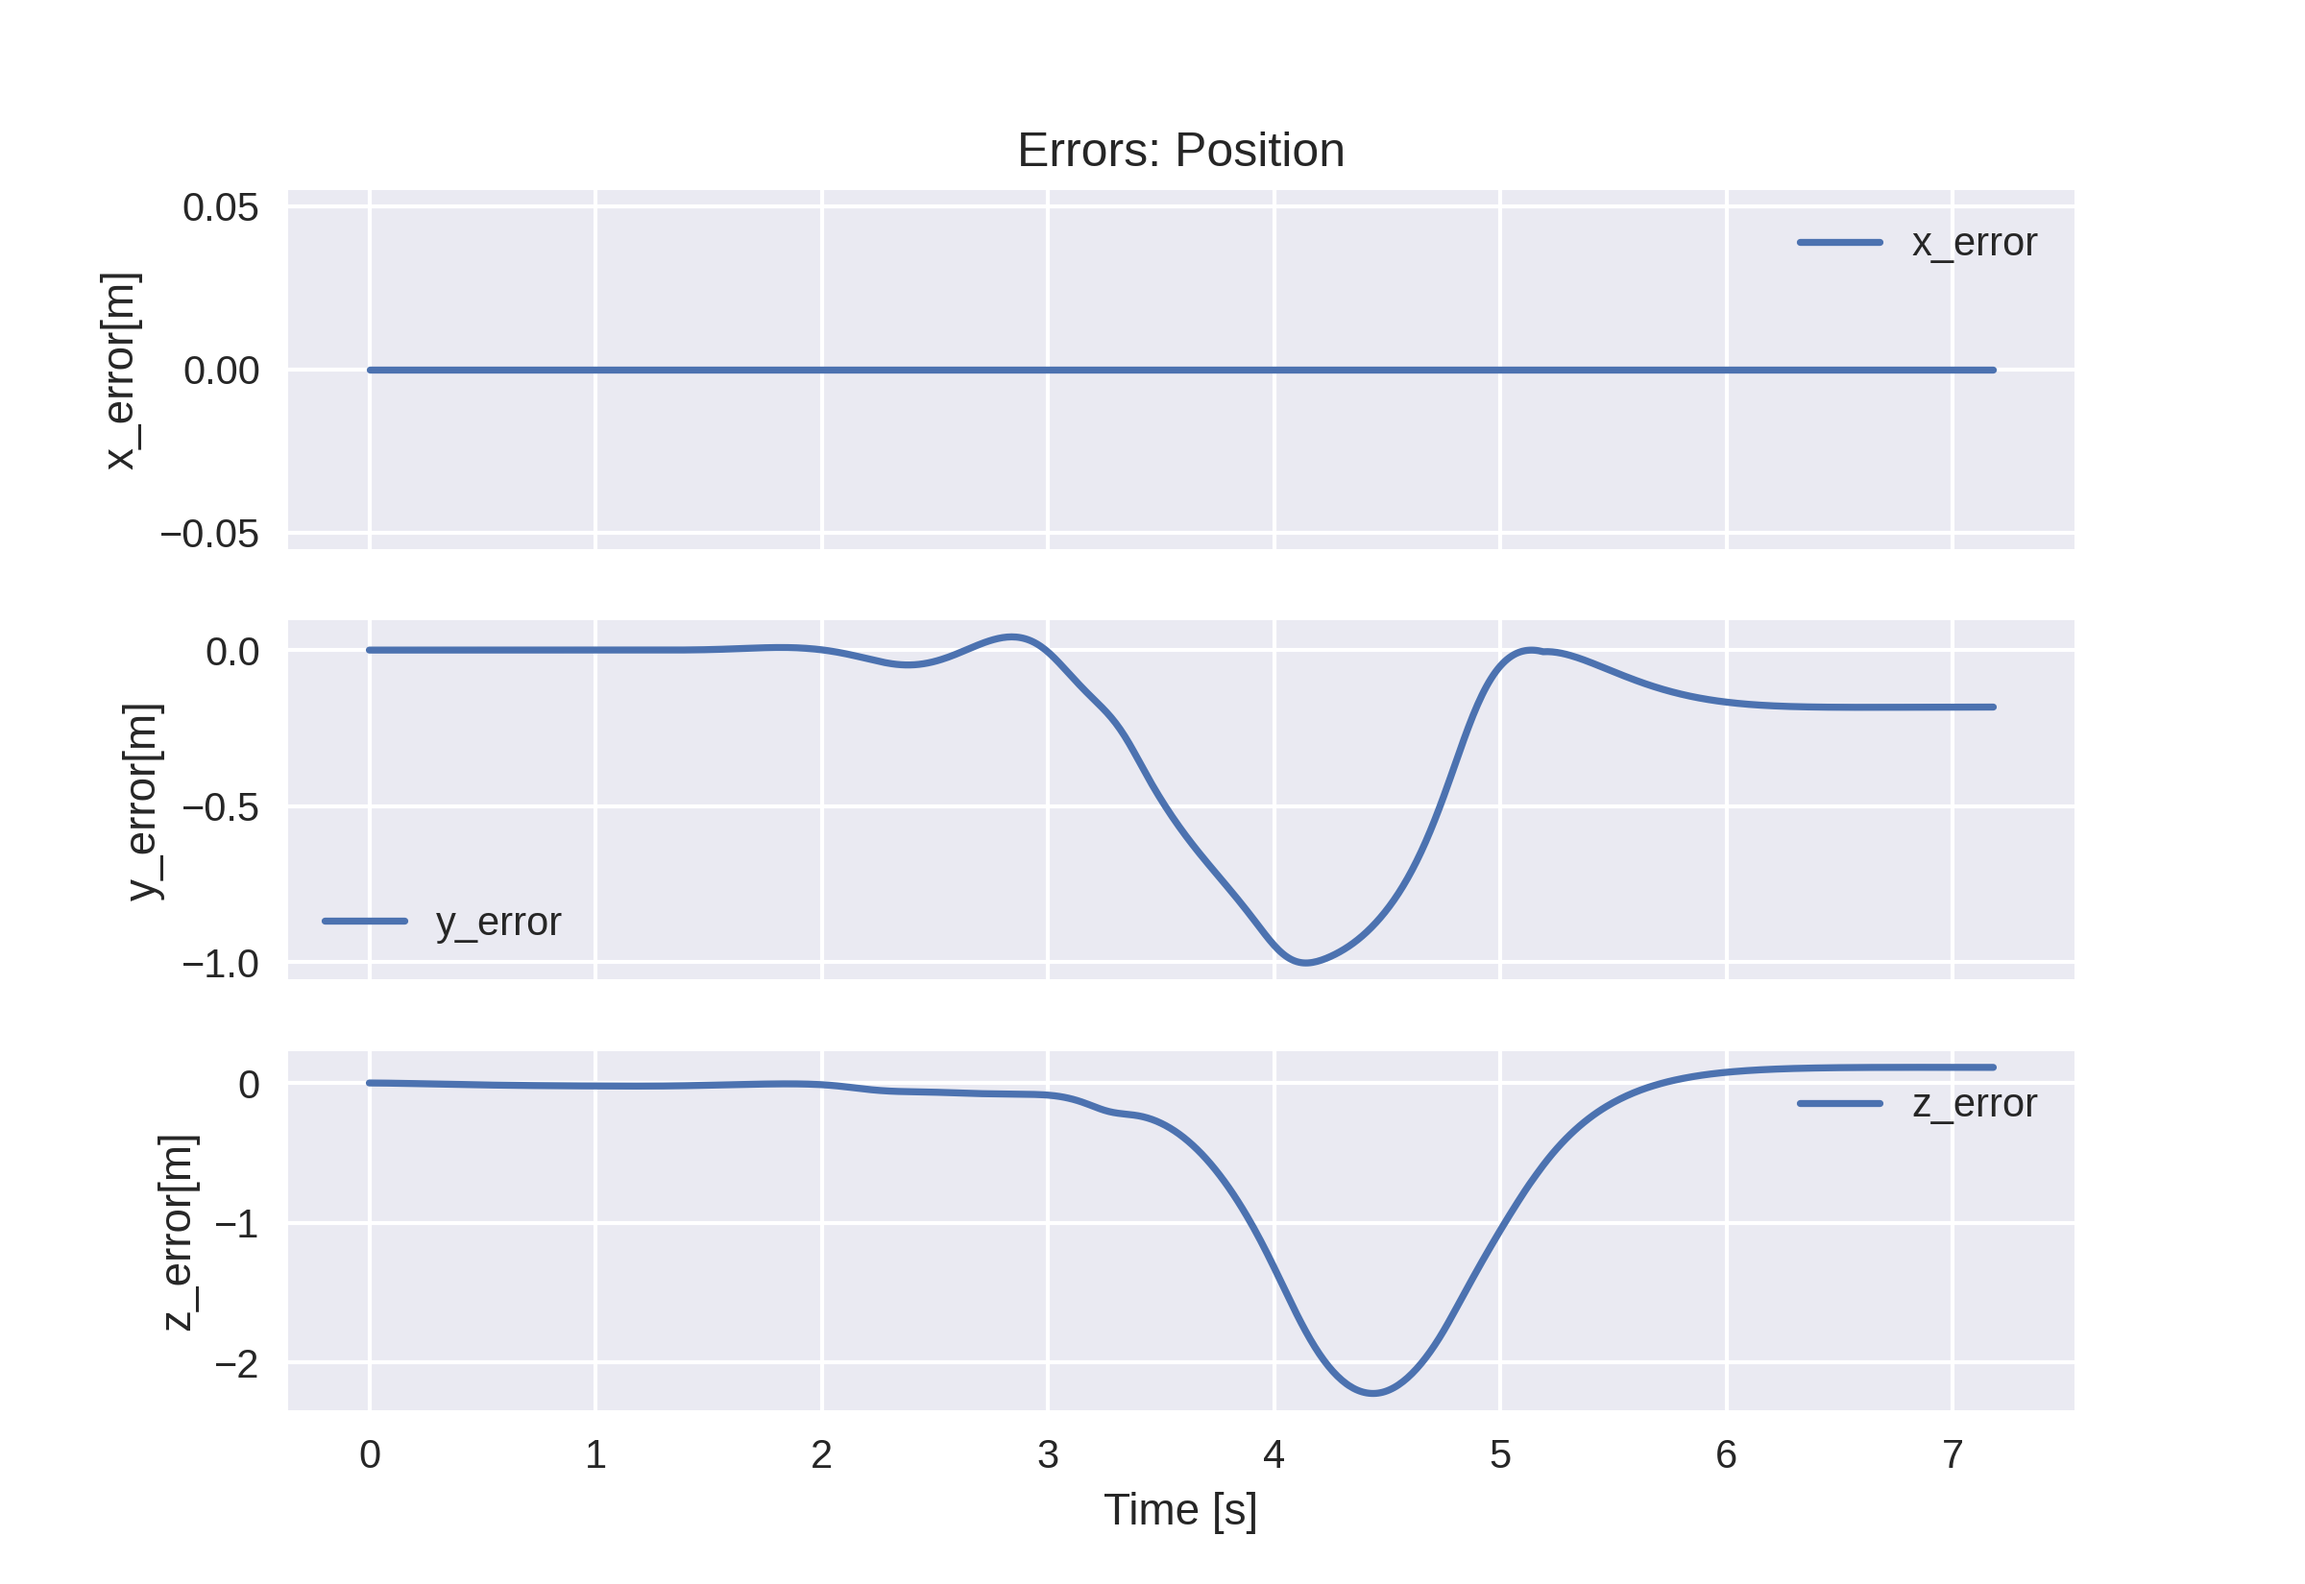
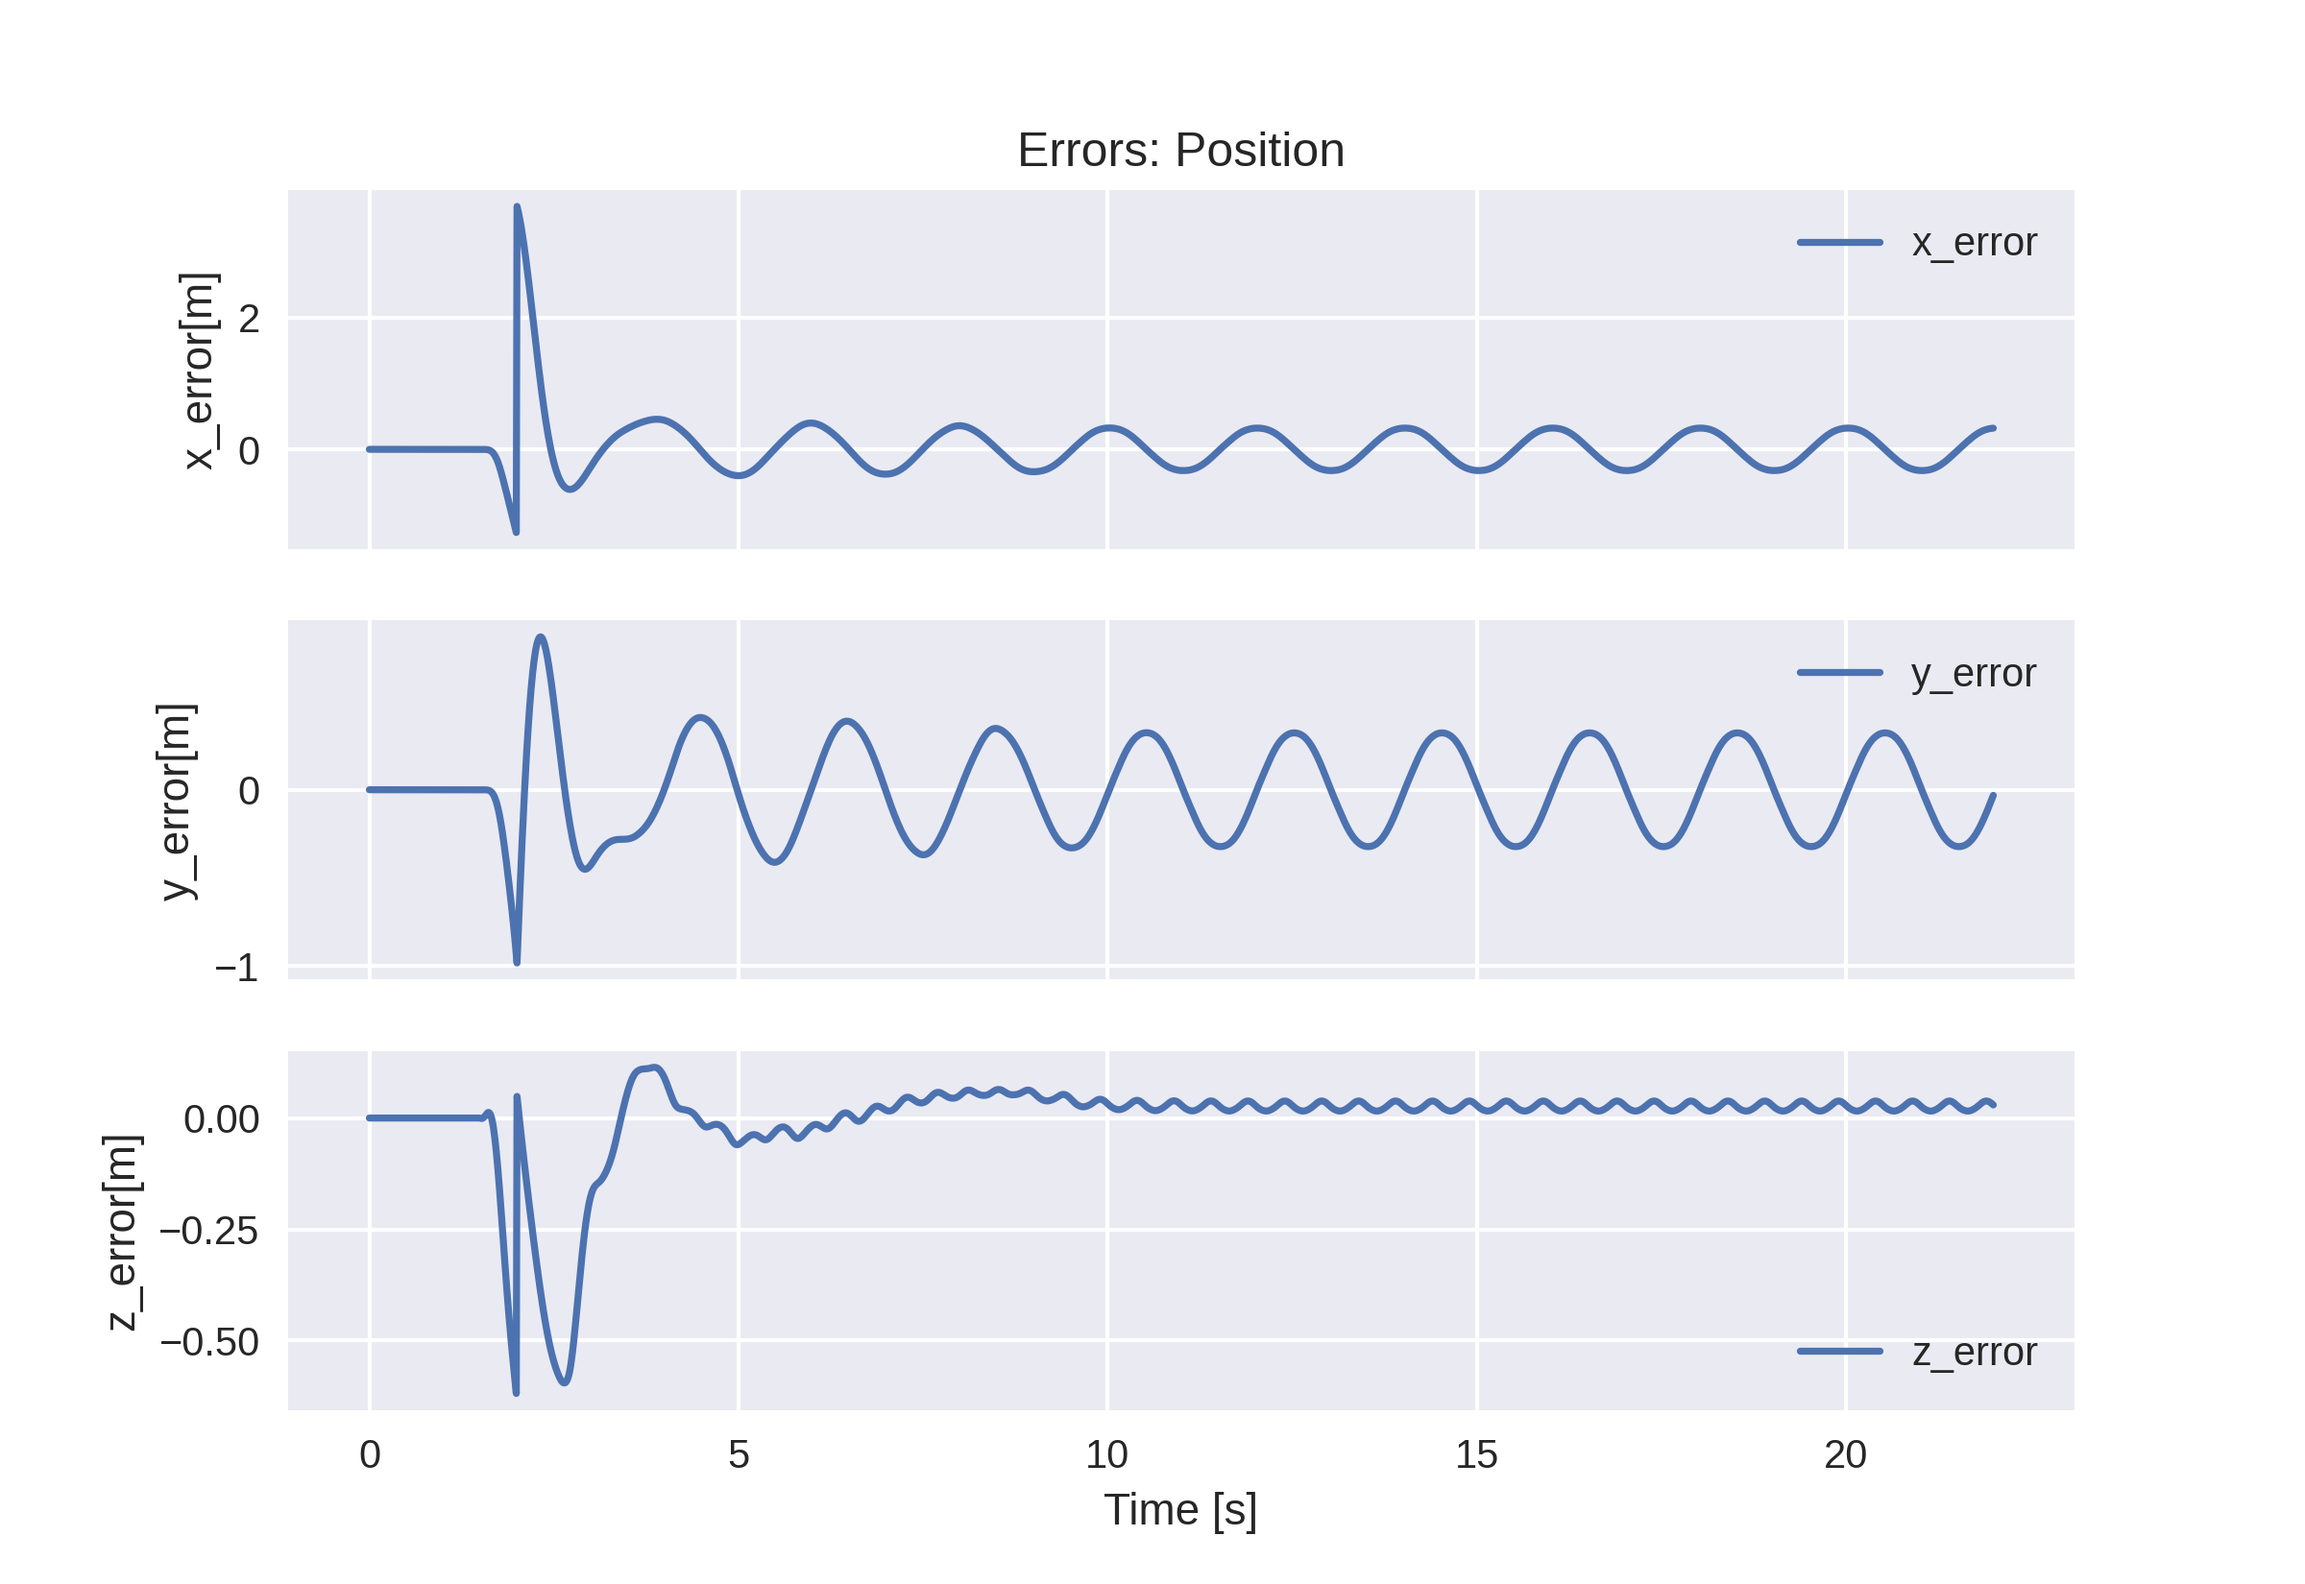
change param

diff --git a/full_mpc/main.py b/full_mpc/main.py
@@ -9,8 +9,8 @@ from trajectory import *
 
 
 # mpc and simulation parameters
-Tf = 1        # prediction horizon
-N = 100      # number of discretization steps
+Tf = 0.2        # prediction horizon
+N = 20      # number of discretization steps
 Ts = Tf / N   # sampling time[s]
 
 T_hover = 2     # hovering time[s]
@@ -31,13 +31,13 @@ noisy_input = False
 # extended_kalman_filter = False
 
 # generate circulare trajectory with velocties
-traj_with_vel = False
+traj_with_vel = True
 
 # use a single reference point
 ref_point = False
 
 # import trajectory with positions and velocities and inputs
-import_trajectory = True
+import_trajectory = False
 
 # bool to save measurements and inputs as .csv files
 save_data = False

diff --git a/full_mpc/c_generated_code/acados_solver_Translational_drone.h b/full_mpc/c_generated_code/acados_solver_Translational_drone.h
@@ -60,7 +60,7 @@
 #define TRANSLATIONAL_DRONE_NY0    14
 #define TRANSLATIONAL_DRONE_NY     14
 #define TRANSLATIONAL_DRONE_NYN    10
-#define TRANSLATIONAL_DRONE_N      100
+#define TRANSLATIONAL_DRONE_N      20
 #define TRANSLATIONAL_DRONE_NH     0
 #define TRANSLATIONAL_DRONE_NPHI   0
 #define TRANSLATIONAL_DRONE_NHN    0

diff --git a/full_mpc/plotFnc.py b/full_mpc/plotFnc.py
@@ -235,7 +235,7 @@ def plotSim3D(simX, ref_traj, save=False):
     # y_end = simX[-1][1]
     # z_end = simX[-1][2]
 
-    plt.style.use('seaborn')
+    # plt.style.use('seaborn')
 
     x = simX[:,0]
     y = simX[:,1]
